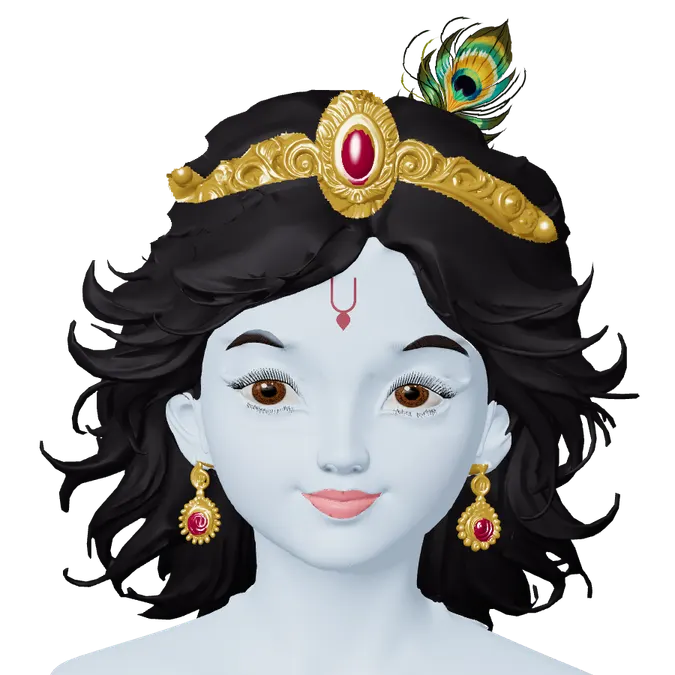
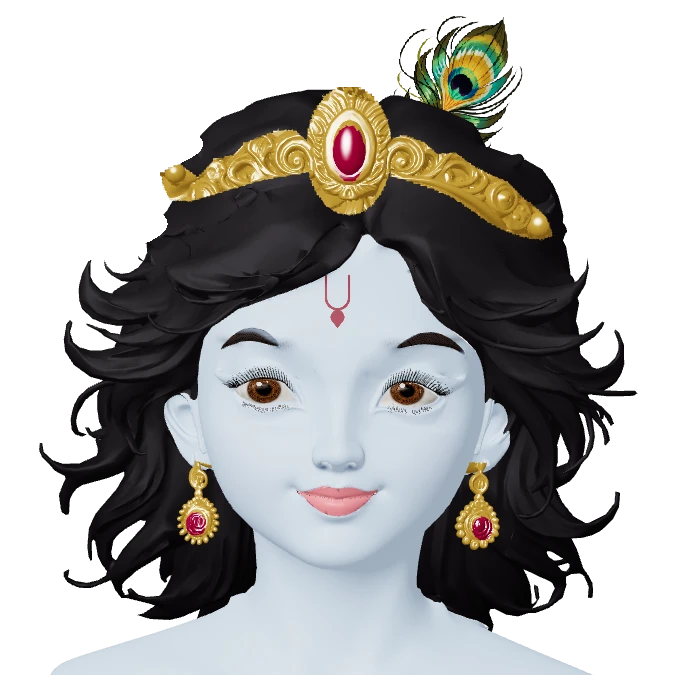
Match cover scale to deployed model camera on desktop and mobile

diff --git a/index.html b/index.html
@@ -5,7 +5,7 @@
   <meta charset="utf-8">
   <meta name="viewport" content="width=device-width, initial-scale=1">
   <title>krishna-spiritualai</title>
-  <link rel="preload" href="./cover.webp" as="image" fetchpriority="high">
+  <link rel="preload" href="./cover.webp?v=e11d95a7e1b5" as="image" fetchpriority="high">
   <link rel="preload" href="./krishna-fast-66ebee8b7f57.glb.gz" as="fetch" crossorigin fetchpriority="high">
   <style>
     * { box-sizing: border-box; }
@@ -13,7 +13,7 @@
     body { color: #888; font: 13px Arial, sans-serif; }
     body.embed #depth, body.embed #emotions, body.embed #speech, body.embed #info { display: none; }
     canvas { display: block; }
-    #poster { position: fixed; z-index: 1; left: 50%; bottom: 0; width: min(100vw, 104.7045332784794vh); height: auto; transform: translateX(-50%); pointer-events: none; transition: opacity 250ms ease; }
+    #poster { position: fixed; z-index: 1; left: 50%; bottom: 0; width: min(108.51693350786087vw, 100vh); height: auto; transform: translateX(-50%); pointer-events: none; transition: opacity 250ms ease; }
     #load-error { position: fixed; bottom: 16px; width: 100%; text-align: center; color: #fff; text-shadow: 0 1px 4px #000; font: 14px Arial, sans-serif; }
     #depth { position: fixed; right: 18px; bottom: 18px; z-index: 1; width: 230px; padding: 12px; background: #242424cc; border: 1px solid #555; color: #888; }
     #depth input { display: block; width: 100%; accent-color: #888; }
@@ -32,7 +32,7 @@
   <link rel="modulepreload" href="./chunk-FQSLMVKZ.js">
 </head>
 <body class="embed">
-  <img id="poster" src="./cover.webp" alt="Krishna" fetchpriority="high">
+  <img id="poster" src="./cover.webp?v=e11d95a7e1b5" alt="Krishna" fetchpriority="high">
   <div id="load-error" role="status" hidden></div>
   <div id="info">Krishna · Spiritual AI</div>
   <div id="emotions" aria-label="Facial emotions"><button aria-pressed="true">Neutral</button><button>Happy</button><button>Sad</button><button>Angry</button><button>Surprised</button><button>Fearful</button><button>Disgusted</button><button>Contempt</button><button>Confused</button><button>Sleepy</button><button>Skeptical</button><button>Pained</button><button>Shy</button><button>Pensive</button><button>Excited</button></div>
